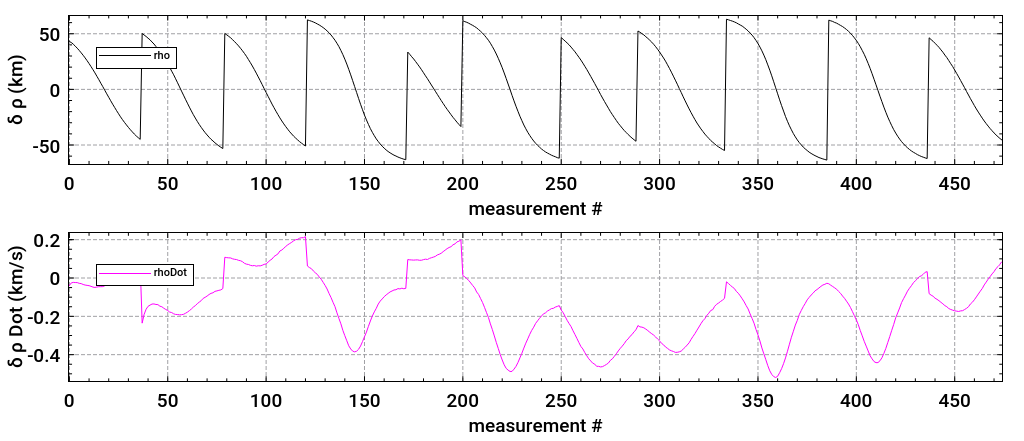
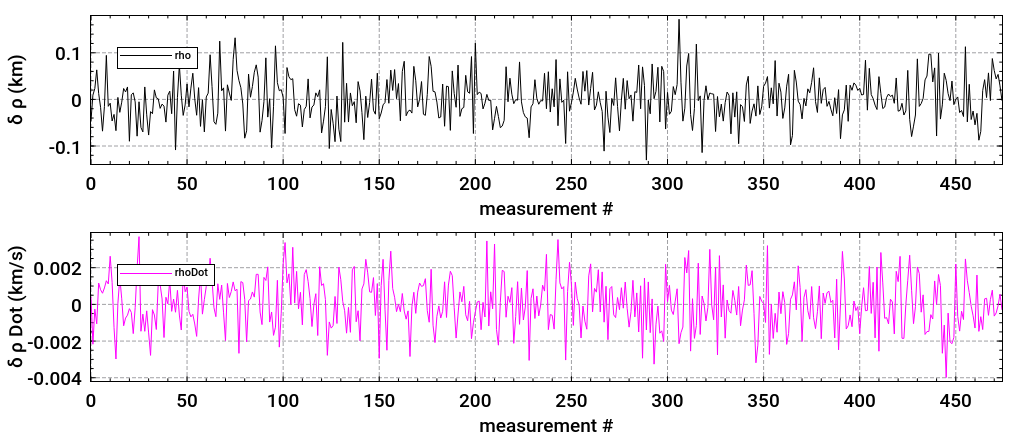
YAY1!!! CKF WORKS BABY!

diff --git a/examples/statOD/hw3/main.go b/examples/statOD/hw3/main.go
@@ -81,7 +81,7 @@ func main() {
 	truth := gokalman.NewBatchGroundTruth(stateTruth, truthMeas)
 
 	// Perturbations in the estimate
-	estPerts := smd.Perturbations{Jn: 3}
+	estPerts := smd.Perturbations{Jn: 2}
 
 	// Initialize the KF
 	Q := mat64.NewSymDense(6, nil)
@@ -112,7 +112,7 @@ func main() {
 		fmt.Printf("#%d (%s)\n", i, measurement.Station.name)
 
 		if i == 0 {
-			orbitEstimate = smd.NewOrbitEstimate("estimator", measurement.State.Orbit, estPerts, measurement.State.DT.Add(-time.Duration(10)*time.Second), time.Second)
+			orbitEstimate = smd.NewOrbitEstimate("estimator", measurement.State.Orbit, estPerts, measurement.State.DT, time.Second)
 			var err error
 			ckf, _, err = gokalman.NewHybridCKF(prevXHat, prevP, noiseKF, 2)
 			if err != nil {
